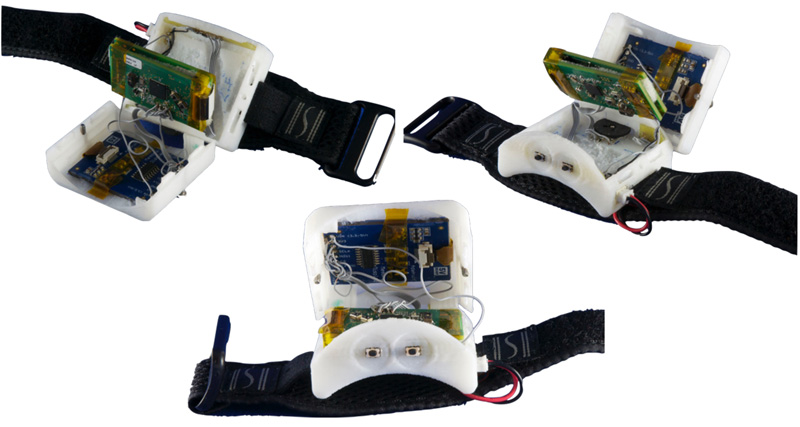
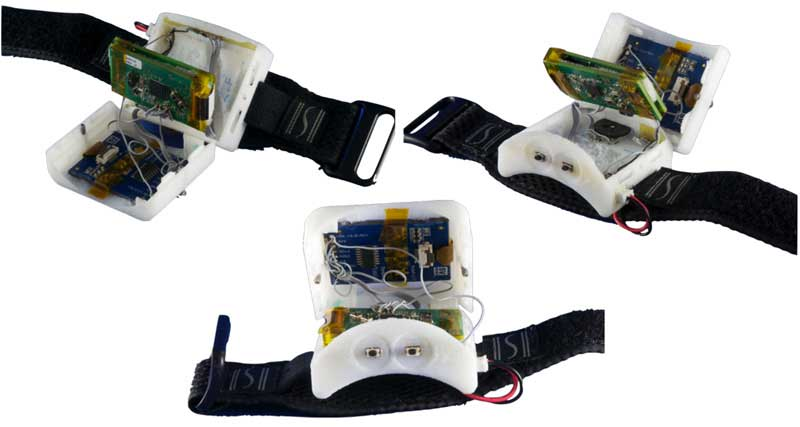
making jpg smaller

diff --git a/js/main.js b/js/main.js
@@ -79,25 +79,25 @@
   });
 
   //youtube video
-      //
-      // var v = document.getElementsByClassName("youtube-player");
-      // for (var n = 0; n < v.length; n++) {
-      //     var p = document.createElement("div");
-      //     p.innerHTML = labnolThumb(v[n].dataset.id);
-      //     p.onclick = labnolIframe;
-      //     v[n].appendChild(p);
-      // }
 
-  // 
-  // function labnolThumb(id) {
-  //     return '<img class="youtube-thumb" src="//i.ytimg.com/vi/' + id + '/hqdefault.jpg"><div class="play-button"></div>';
-  // }
-  //
-  // function labnolIframe() {
-  //     var iframe = document.createElement("iframe");
-  //     iframe.setAttribute("src", "//www.youtube.com/embed/" + this.parentNode.dataset.id + "?autoplay=1&autohide=2&border=0&wmode=opaque&enablejsapi=1&controls=0&showinfo=0");
-  //     iframe.setAttribute("frameborder", "0");
-  //     iframe.setAttribute("id", "youtube-iframe");
-  //     this.parentNode.replaceChild(iframe, this);
-  // }
+    var v = document.getElementsByClassName("youtube-player");
+    for (var n = 0; n < v.length; n++) {
+        var p = document.createElement("div");
+        p.innerHTML = labnolThumb(v[n].dataset.id);
+        p.onclick = labnolIframe;
+        v[n].appendChild(p);
+    }
+
+
+  function labnolThumb(id) {
+      return '<img class="youtube-thumb" src="//i.ytimg.com/vi/' + id + '/hqdefault.jpg"><div class="play-button"></div>';
+  }
+
+  function labnolIframe() {
+      var iframe = document.createElement("iframe");
+      iframe.setAttribute("src", "//www.youtube.com/embed/" + this.parentNode.dataset.id + "?autoplay=1&autohide=2&border=0&wmode=opaque&enablejsapi=1&controls=0&showinfo=0");
+      iframe.setAttribute("frameborder", "0");
+      iframe.setAttribute("id", "youtube-iframe");
+      this.parentNode.replaceChild(iframe, this);
+  }
 })(jQuery);

diff --git a/css/main.css b/css/main.css
@@ -302,7 +302,7 @@ a:hover {
    Youtube
    ========================================================================== */
 
-/*.youtube-container {
+.youtube-container {
   display: block;
   margin: 20px auto;
   width: 100%;
@@ -310,10 +310,10 @@ a:hover {
 }
 .youtube-player {
   display: block;
-  width: 100%;*/
+  width: 100%;
   /* assuming that the video has a 16:9 ratio */
   /*padding-bottom: 56.25%;*/
-  /*overflow: hidden;
+  overflow: hidden;
   position: relative;
   width: 40vw;
   height: 25vw;
@@ -342,13 +342,8 @@ div.play-button {
   margin-top: -36px;
   position: absolute;
   background: url("http://i.imgur.com/TxzC70f.png") no-repeat;
-}*/
-/*.video {
-  width: 40vw;
-  height: 25vw;
-  margin-bottom: 30px;
-  margin-top: 30px;
-}*/
+}
+
 /* ==========================================================================
    Featherlight Gallery Lightbox
    ========================================================================== */
